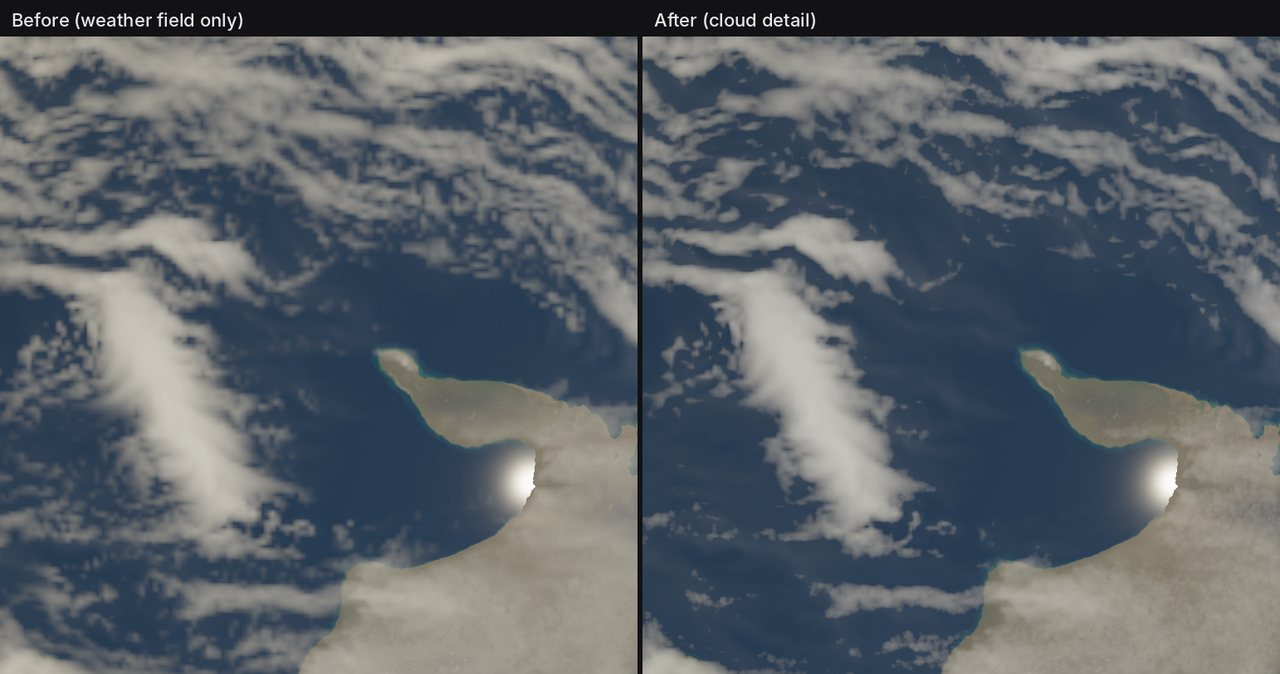
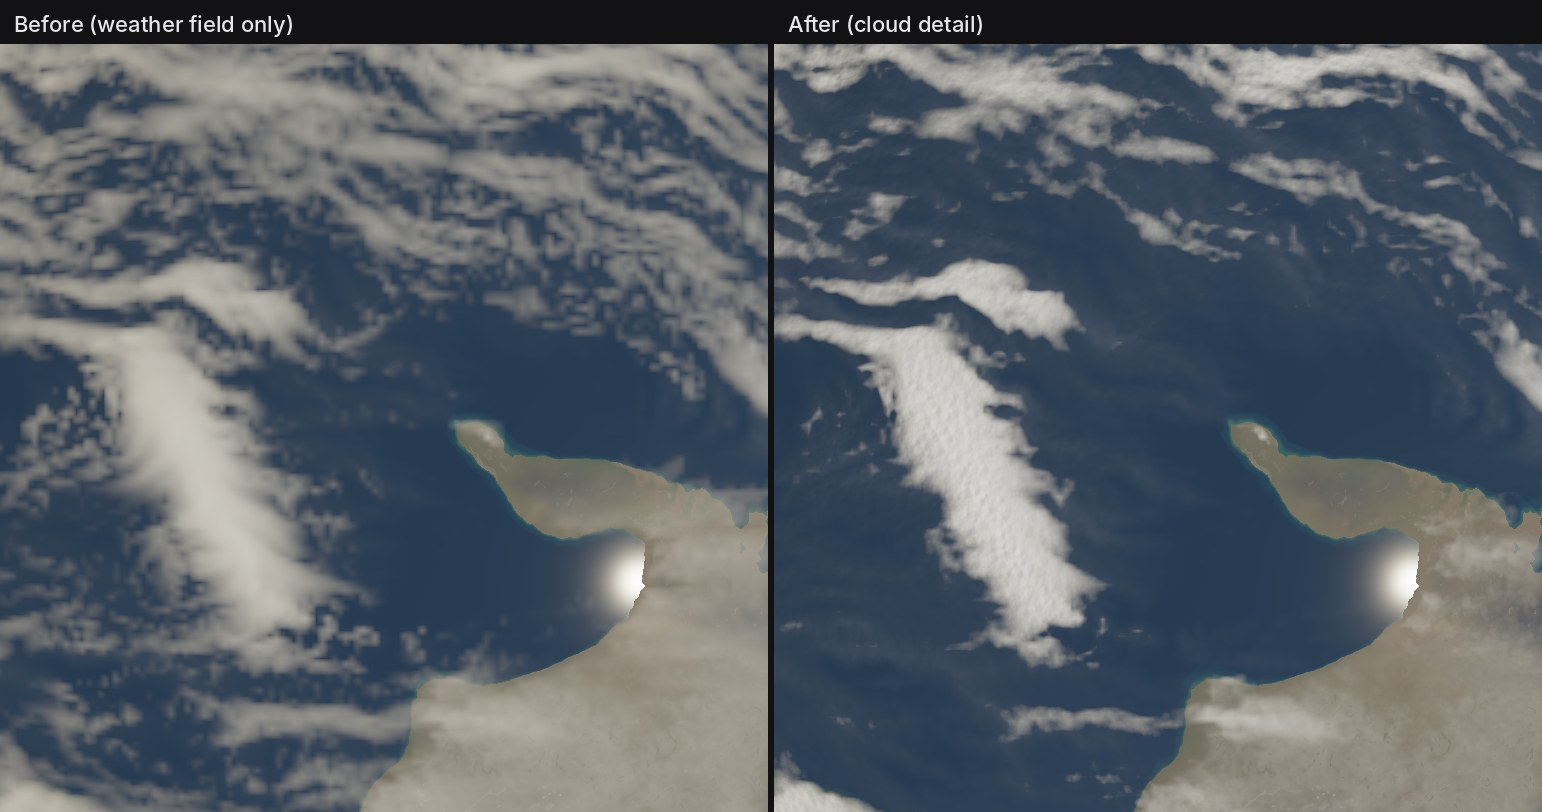
✨ Brighter cloud cores, faint haze and dome relief in preview detail
Review pass on preview cloud detail: a t^0.6 contrast curve above a 0.05
clear level keeps the haze between solver ripples faint while their cores
turn bright (gain 36), skylight rises to 0.24, and billow octaves return a
soft-min Worley dome slope that brightens sunward and darkens lee sides of
puffs at low sun. The thin-veil test now measures broken cloud relative to
the deck's own peak depth.

Claude-Session: https://claude.ai/code/session_0197Y6RThb8d4e62Bs4cfXam

diff --git a/src/preview.rs b/src/preview.rs
@@ -1672,16 +1672,22 @@ mod tests {
             ..uniforms()
         };
         let (reference, candidate) =
-            uniform_deck_renders(&gpu, &renderer, [0.03, 0.0, 0.0, 0.03], &settings, size);
+            uniform_deck_renders(&gpu, &renderer, [0.04, 0.0, 0.0, 0.04], &settings, size);
         let center = deck_center(size).collect::<Vec<_>>();
-        let (mut clear, mut cloud) = (0usize, 0usize);
+        let mut depths = Vec::with_capacity(center.len());
         for &i in &center {
-            let before = optical_depth(reference[i]);
-            let after = optical_depth(candidate[i]);
-            assert!(before > 0.005, "solver veil must cover the deck");
-            clear += usize::from(after < 0.25 * before);
-            cloud += usize::from(after > 0.3 * before);
+            assert!(
+                optical_depth(reference[i]) > 0.005,
+                "solver veil must cover the deck"
+            );
+            depths.push(optical_depth(candidate[i]));
         }
+        let mut sorted = depths.clone();
+        sorted.sort_by(f32::total_cmp);
+        let peak = sorted[sorted.len() * 95 / 100];
+        assert!(peak > 0.0, "thin veil vanished entirely");
+        let clear = depths.iter().filter(|&&d| d < 0.25 * peak).count();
+        let cloud = depths.iter().filter(|&&d| d > 0.5 * peak).count();
         // A thin column is a field of broken cloud, not a uniform haze: some
         // sky clears while much of the veil survives as cloud.
         let clear = clear as f32 / center.len() as f32;

diff --git a/docs/plans/2026-10-17-002-feat-preview-cloud-detail-plan.md b/docs/plans/2026-10-17-002-feat-preview-cloud-detail-plan.md
@@ -22,9 +22,13 @@ families per column:
 
 - liquid column depth `d = (0.45 low + 1.65 deep) * 4.5`, the solver's own
   optical weights;
-- thickness window `t = clamp((d - 0.02) / 0.33)`, the bridge's contrast map;
-- physical depth `tau = 12 (d - 0.02) * kept`: a 0.35 solver column becomes
-  tau ~4 (review found gain 50 too dense: it hid the solver's fine ripples);
+- thickness window `t = clamp((d - 0.05) / 0.30)`, the bridge's contrast map;
+  columns below 0.05 (the faint haze between solver ripples) stay clear;
+- physical depth `tau = 36 (d - 0.05) * kept * t^0.6`: a 0.35 solver column
+  becomes tau ~11, a typical stratocumulus deck, while the `t^0.6` contrast
+  curve keeps thin ripples translucent. Review found a flat gain of 50 too
+  dense (it merged the fine ripples into white blocks) and a flat gain of 12
+  too dim and hazy;
 - two-stream shading with g = 0.85: a layer reflects `a tau / (1 + a tau)`,
   a = 0.075, so the Beer-Lambert compositor gets `tau' = ln(1 + a tau)`. Thick
   decks turn bright without clipping to flat white; thin cloud stays
@@ -63,10 +67,18 @@ noise.
 
 ## U5: Lighting and shadows
 
-- Skylight: cloud tops add `0.16 * blue sky * atmosphere density` of the direct
+- Skylight: cloud tops add `0.24 * blue sky * atmosphere density` of the direct
   irradiance scale, lifting shaded sides and offsetting the reddened beam.
 - Surface shadows sample the same eroded column at the sun-offset point, so
   broken cumulus casts broken shadows.
+- Relief: the billow octaves also return the slope of their domes. Worley
+  supplies it as a soft-minimum blend of unit vectors toward nearby feature
+  points, so shading stays continuous across cell borders (the hard nearest
+  point faceted like hammered metal). The slope is weighted by octave but not
+  by frequency, so large domes shade and fine octaves stay flat, then carried
+  through the wind stretch. Direct sunlight scales by
+  `1 + 0.6 * clamp(1.2 * slope . sun_tangent)`: sunward sides of each puff
+  brighten and lee sides darken at low sun, fading out under a high sun.
 
 ## U6: Controls and files
 
@@ -89,8 +101,9 @@ previous preview), right the default detail.
 
 - `cloud_detail_does_not_turn_uniform_decks_into_noise_masks`: 0.8 decks of
   each family keep no holes and under 6% ripple in optical depth.
-- `cloud_detail_breaks_thin_uniform_veils_into_cloud_and_clear_sky`: a 0.03
-  low deck becomes clear sky between surviving cloud.
+- `cloud_detail_breaks_thin_uniform_veils_into_cloud_and_clear_sky`: a 0.04
+  low deck breaks into clear sky (under a quarter of its p95 depth) between
+  surviving cloud (over half).
 - `cloud_detail_adds_no_cloud_or_shadow_to_clear_sky_and_ignores_cloud_seed`:
   empty weather renders bit-identically with detail 0 and 1; cloud seeds do
   not change the detailed render.

diff --git a/Plans.md b/Plans.md
@@ -385,7 +385,8 @@ Requirements: [docs/brainstorms/2026-10-17-preview-cloud-detail-requirements.md]
 
 | Task | 内容 | DoD | Depends | Status |
 |------|------|-----|---------|--------|
-| 14.1 | Physical optical depth (`12 * (d - 0.02)`, two-stream `ln(1 + 0.075 tau)`) and bridge billow erosion per column in `preview_cubemap.wgsl`; sun path uses the same column | Thin uniform veil breaks into cloud and clear sky; thick decks keep no holes and under 6% ripple | 13.3 | cc:完了 [2c8d14e] |
+| 14.1 | Physical optical depth (`36 * (d - 0.05) * t^0.6`, two-stream `ln(1 + 0.075 tau)`) and bridge billow erosion per column in `preview_cubemap.wgsl`; sun path uses the same column | Thin uniform veil breaks into cloud and clear sky; thick decks keep no holes and under 6% ripple | 13.3 | cc:完了 [2c8d14e] |
 | 14.2 | Sub-texel lookup warp, footprint octave filtering, wind-aligned billow stretch, ice sheet gain without noise | Seeds 42/73/137 captures: no texel blocks or shimmer, storm and cirrus swirls kept | 14.1 | cc:完了 [2c8d14e] |
 | 14.3 | Skylight on cloud tops; surface shadows from the detailed column | Clear sky gets no cloud light or shadow (bit-identical with detail 0 and 1) | 14.1 | cc:完了 [2c8d14e] |
 | 14.4 | Clouds > Detail slider, `PlanetFile::cloud_detail`, `_pad4` slot becomes `cloud_detail`; export pins 0 | Detail 0 matches the previous preview; cloud seed does not change the detailed render | 14.1 | cc:完了 [2c8d14e] |
+| 14.5 | Review pass: `t^0.6` contrast curve with 0.05 clear level (faint haze between ripples, bright cores), gain 36, skylight 0.24, soft-min Worley dome relief lighting at low sun | Seeds 42/73/137 captures: whiter decks, clear ocean between ripples, no faceting or grain on storm decks | 14.1 | cc:完了 [pending] |
